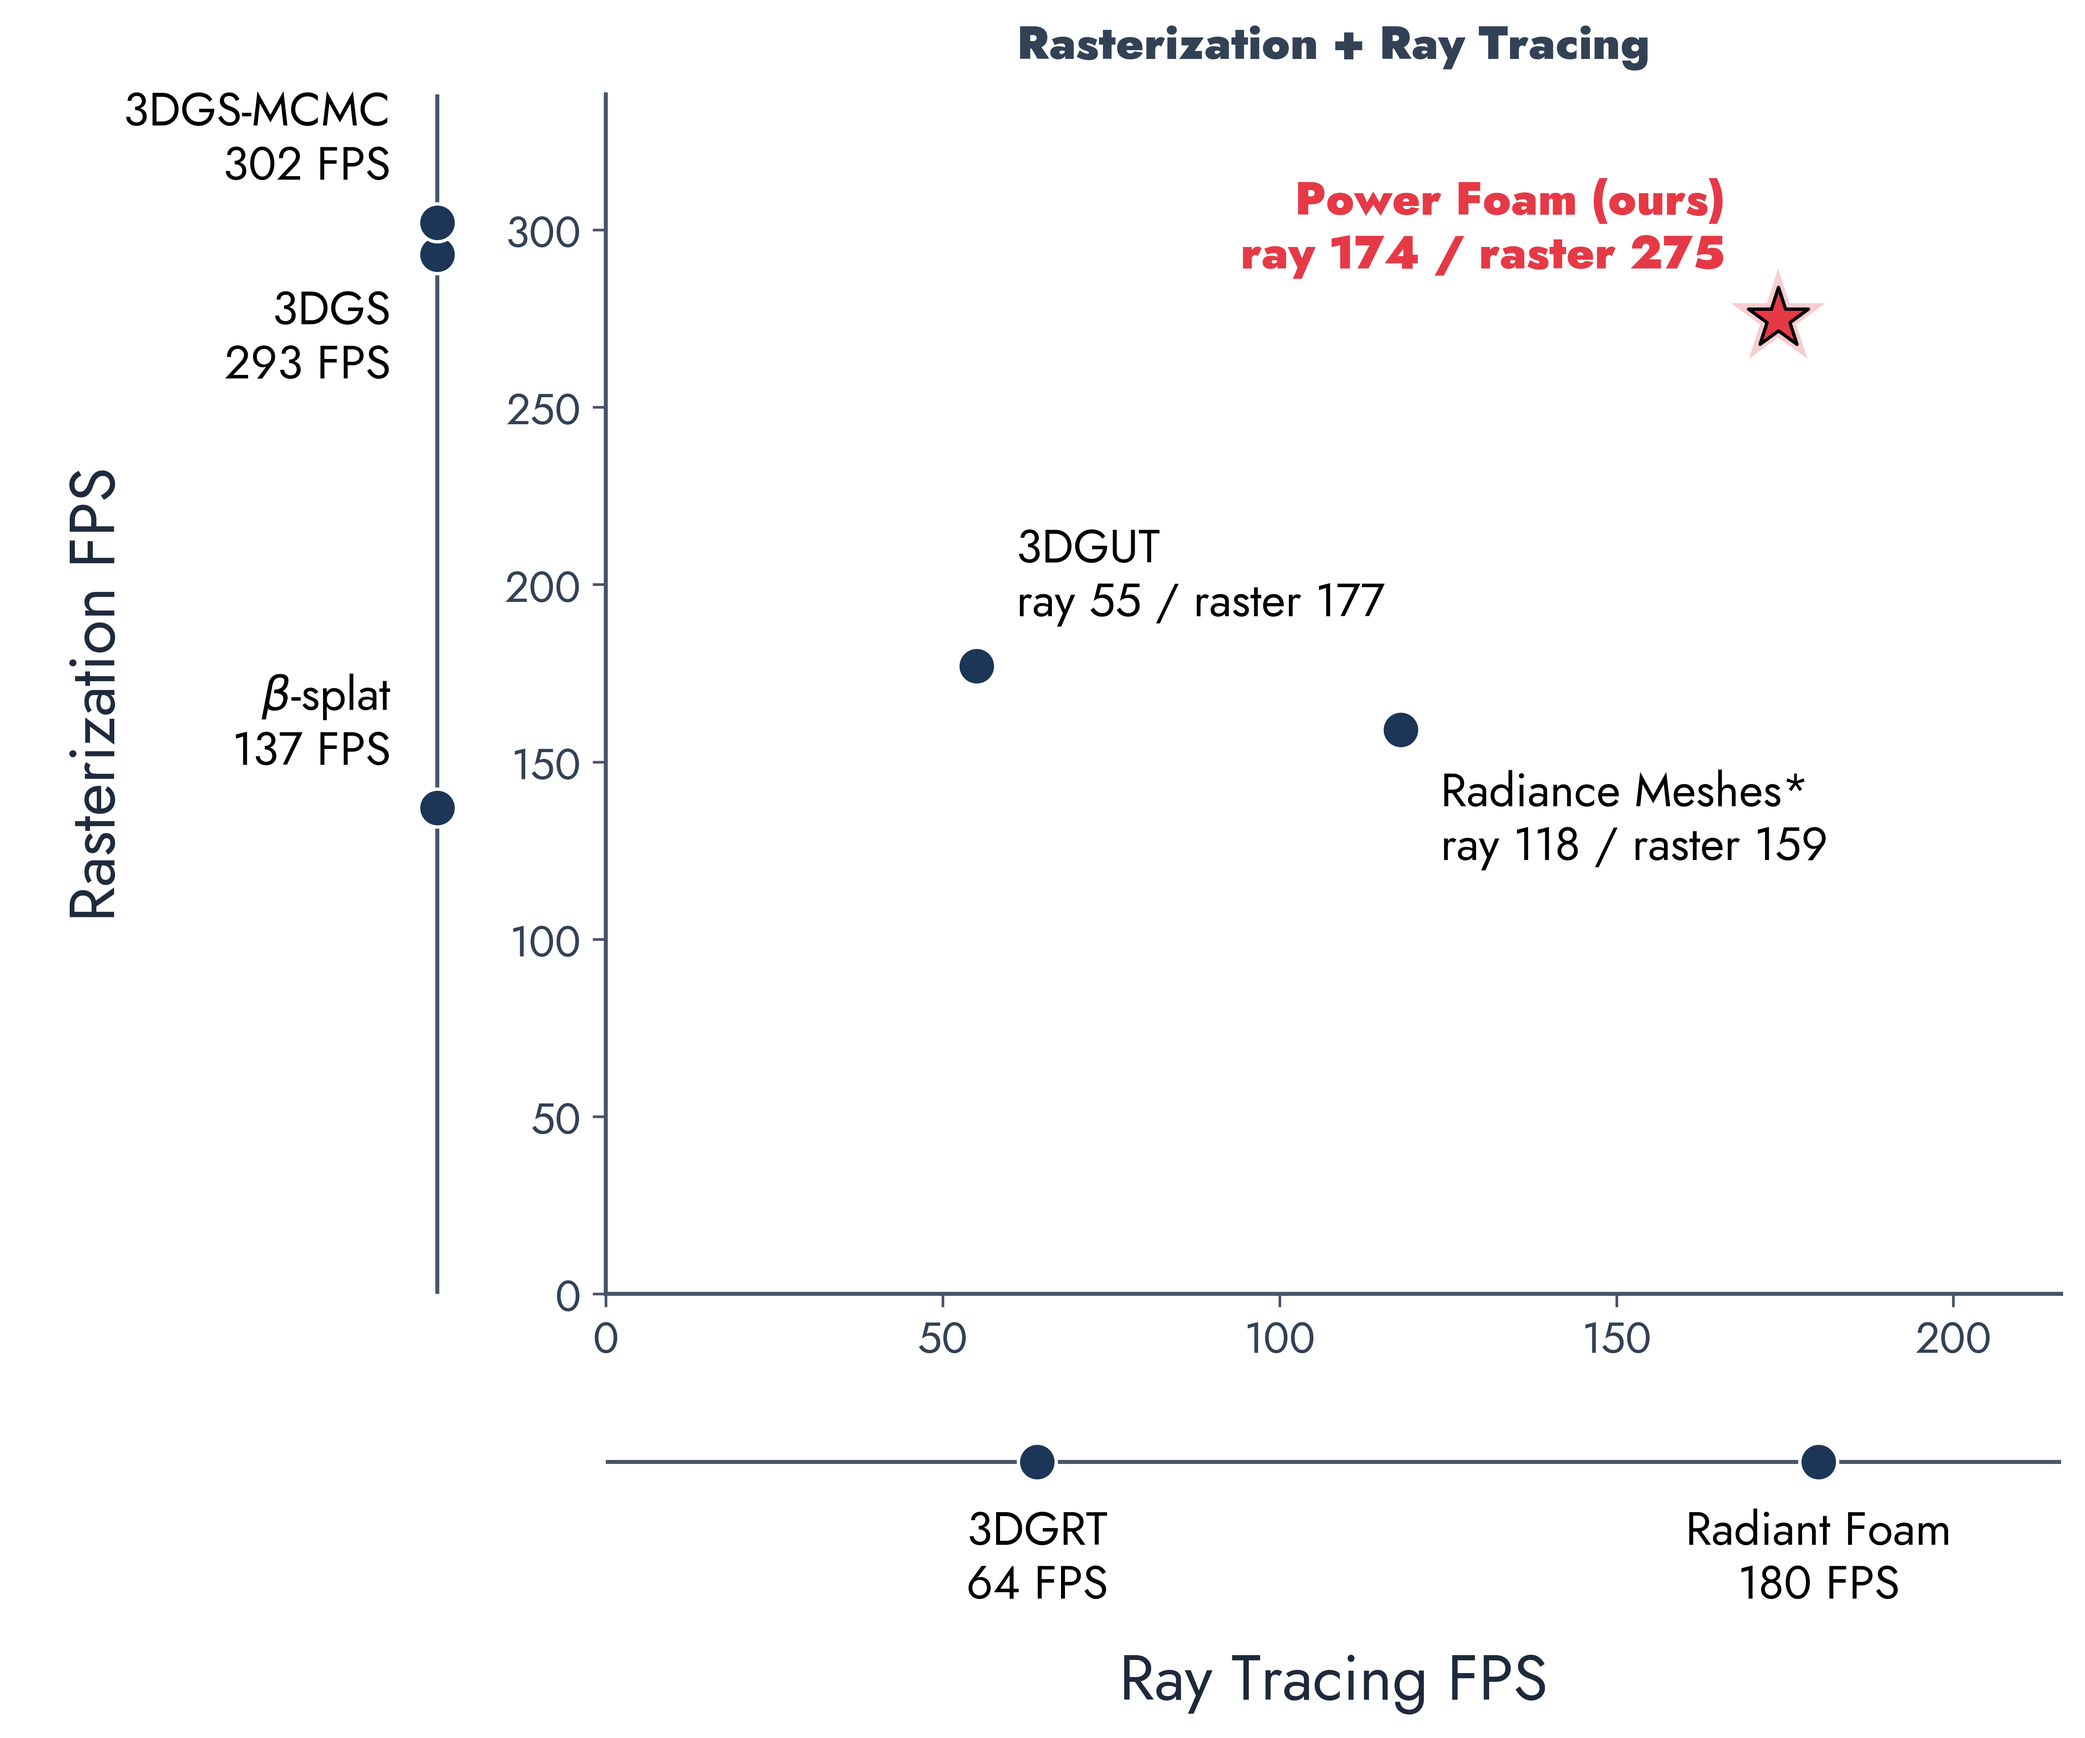
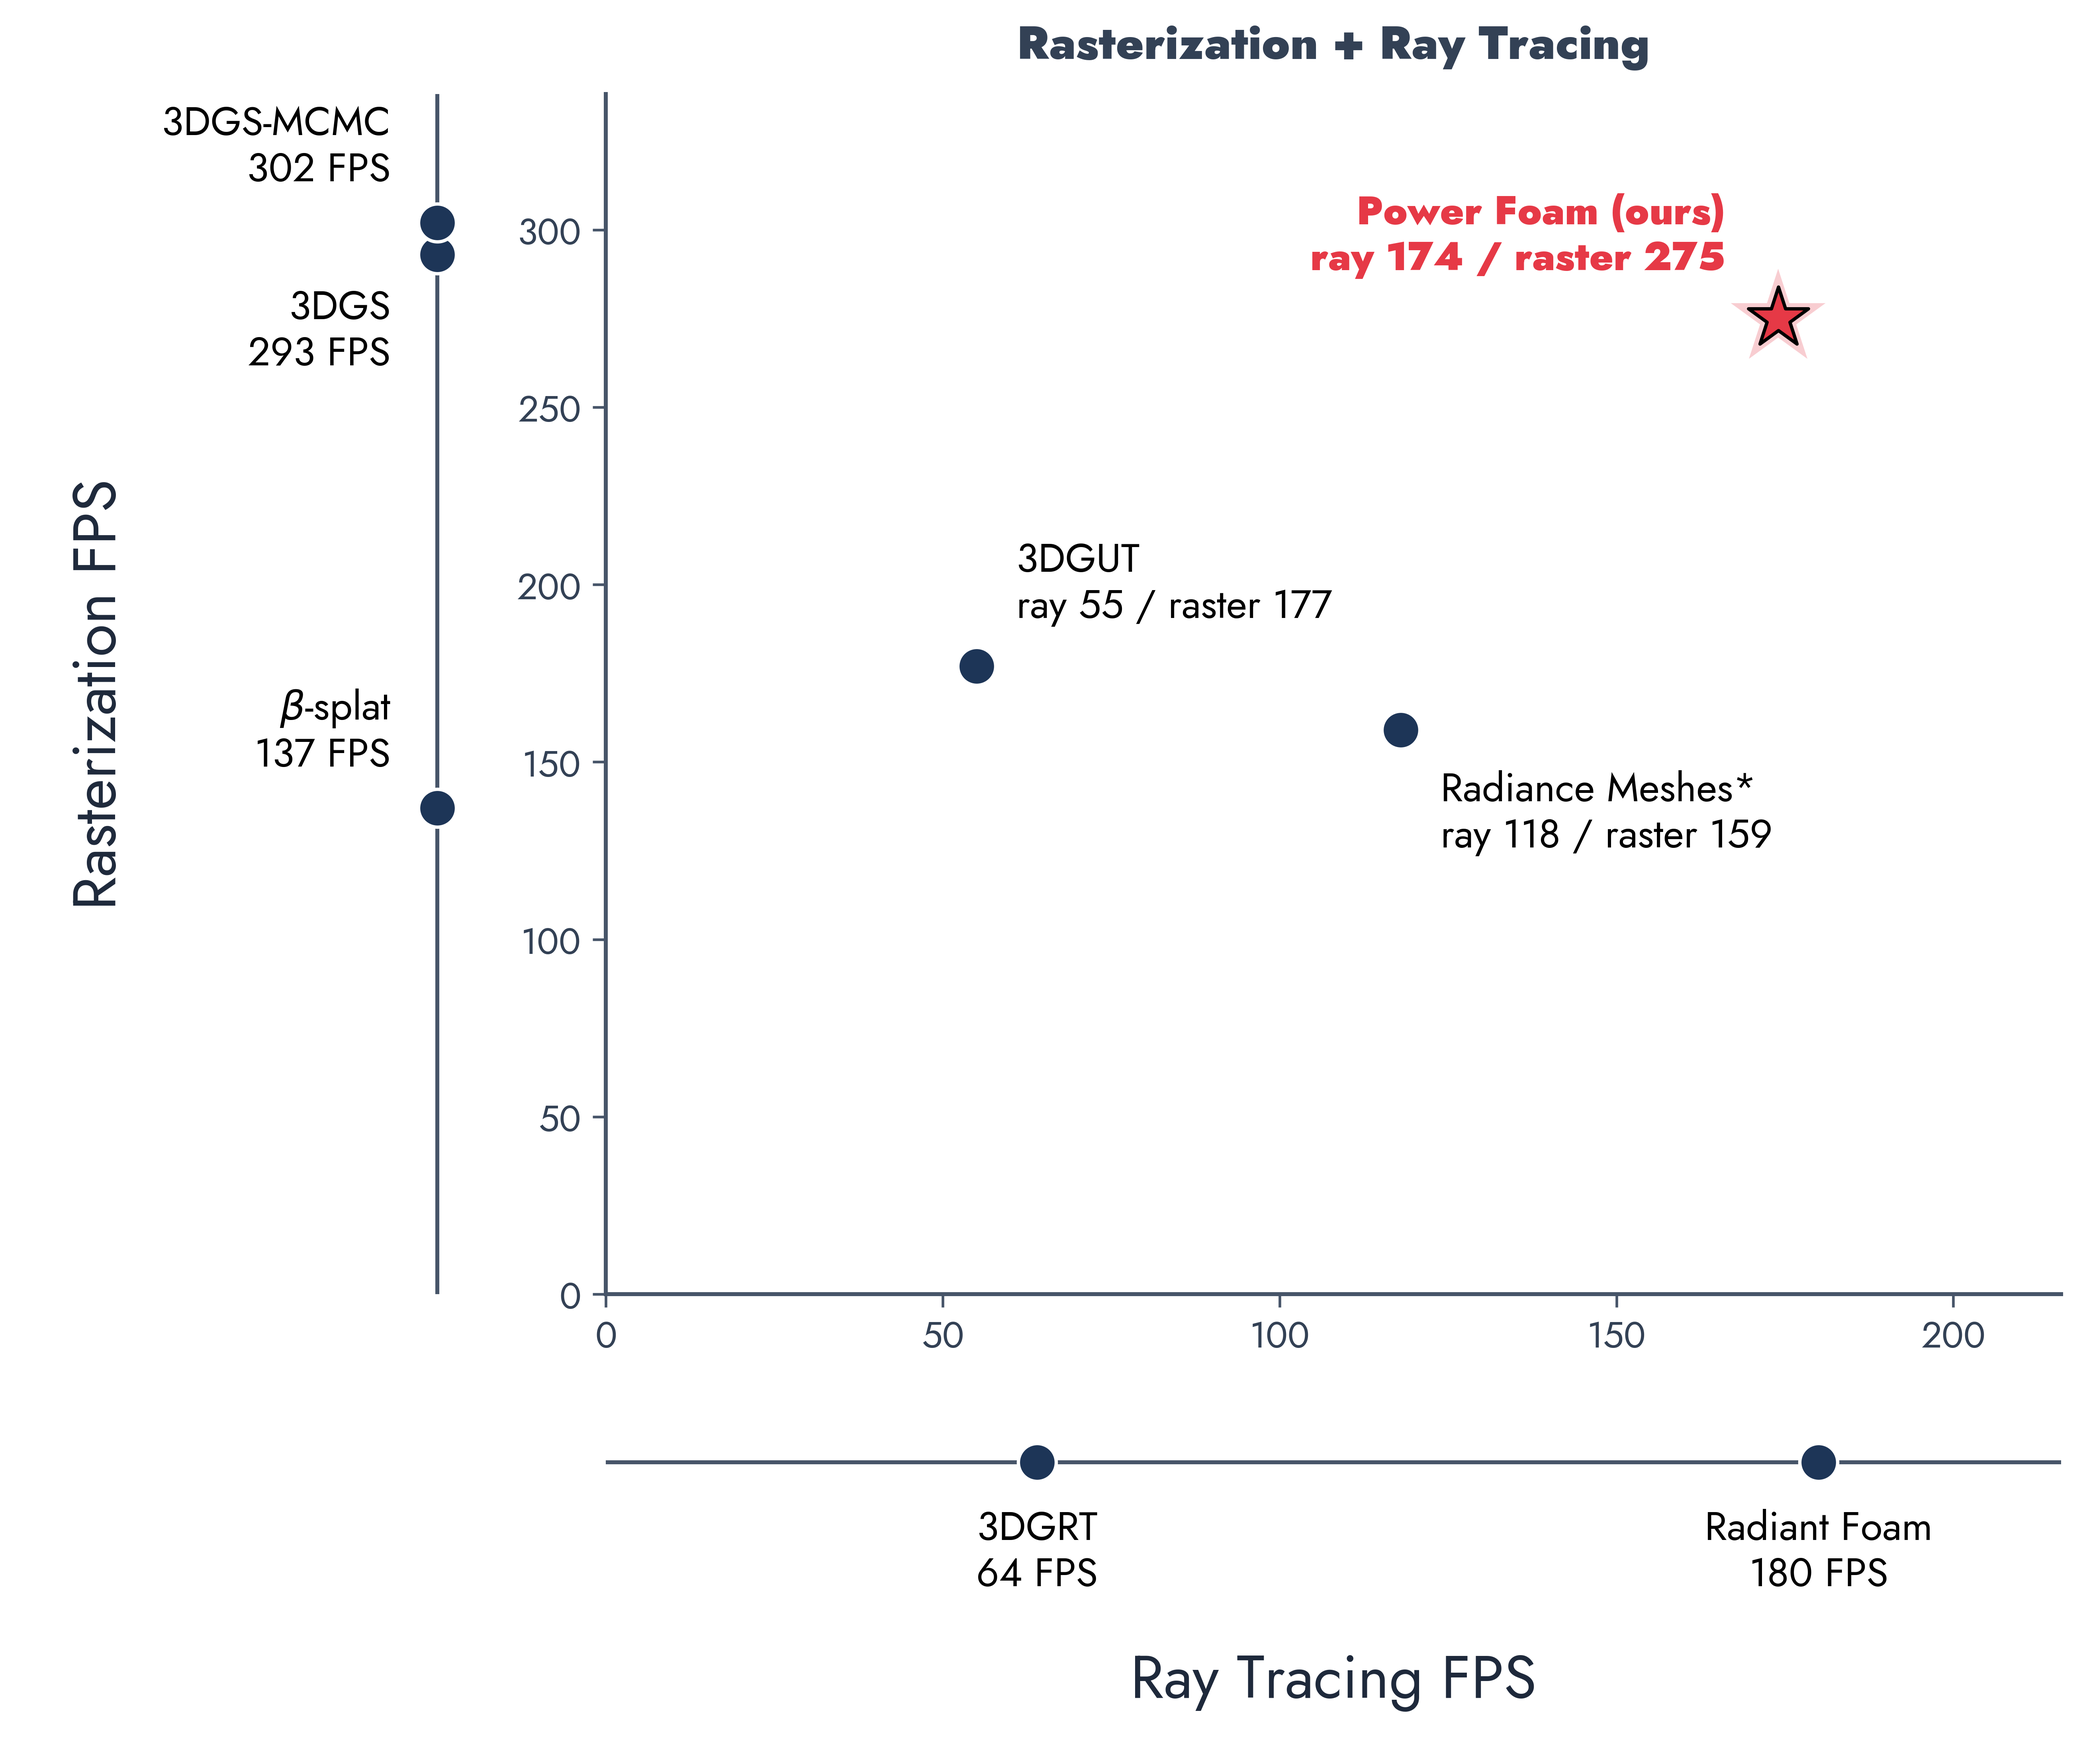
Tune FPS plot font sizes to match page hierarchy
Compute the matplotlib pt sizes that map to ~18 px (body) / ~28 px
(headings) on screen given the dpi=600 raster + ~0.2x display scale
inside the page container, then apply across the script:

  font.size            15  ->  12  (body / point labels)
  axes.labelsize       16  ->  18  (axis titles)
  xtick.labelsize      13  ->  11
  ytick.labelsize      13  ->  11
  annotation fontsize  14  ->  12
  set_xlabel/ylabel    19  ->  18

Result: data-point labels read at body-text size, axis titles read
as section headings, tick numerals stay subordinate.

Made-with: Cursor

diff --git a/plot_fps_scatter.py b/plot_fps_scatter.py
@@ -94,7 +94,7 @@ def _annotate(ax, xy, text, name, offset, ha="center", va="bottom") -> None:
         textcoords="offset points",
         ha=ha,
         va=va,
-        fontsize=14,
+        fontsize=12,
         fontweight="bold" if _is_ours(name) else "normal",
         color=OURS_COLOR if _is_ours(name) else "black",
     )
@@ -222,6 +222,9 @@ def _category_label(ax, text, x, y, ha="center", va="center", rotation=0) -> Non
         fontsize=14,
         color="#334155",
         fontweight="bold",
+        # Note: 14pt bold renders heavier than the 12pt body labels below
+        # while staying smaller than the 18pt axis labels — same visual
+        # hierarchy as <h3> in the page (subsection title).
         rotation=rotation,
     )
 
@@ -232,16 +235,22 @@ def _category_label(ax, text, x, y, ha="center", va="center", rotation=0) -> Non
 
 
 def build_figure(out_path: Path) -> None:
+    # Sizes are tuned so the rasterised plot, when displayed inside the
+    # page's `.container.is-max-desktop` (~1000 px wide on desktop) maps
+    # to roughly the same on-screen pixel sizes as the surrounding HTML:
+    # body labels ≈ 18 px, headings/axis labels ≈ 28 px. The image is
+    # saved at dpi=600 (~5 px/pt at the typical 0.2x display scale), so
+    # body text needs ≈ 12 pt and headings ≈ 18 pt in matplotlib units.
     plt.rcParams.update({
         "font.family": ["Jost", "sans-serif"],
-        "font.size": 15,
+        "font.size": 12,
         "axes.labelcolor": "#1e293b",
-        "axes.labelsize": 16,
+        "axes.labelsize": 18,
         "xtick.color": "#334155",
         "ytick.color": "#334155",
-        "xtick.labelsize": 13,
-        "ytick.labelsize": 13,
-        "legend.fontsize": 13,
+        "xtick.labelsize": 11,
+        "ytick.labelsize": 11,
+        "legend.fontsize": 12,
         "text.antialiased": True,
         # Render mathtext (e.g. r"$\beta$-splat") with sans-serif glyphs so
         # the Greek letter blends in instead of looking like Computer Modern.
@@ -310,7 +319,7 @@ def build_figure(out_path: Path) -> None:
         y_lim=(y_min, y_max),
         line_x=0.42,
     )
-    ax_left.set_ylabel("Rasterization FPS", fontsize=19)
+    ax_left.set_ylabel("Rasterization FPS", fontsize=18)
     # Pull the y-axis title in closer (default sits near the figure edge),
     # but leave a small breathing margin past the data labels.
     ax_left.yaxis.set_label_coords(0.18, 0.5)
@@ -328,7 +337,7 @@ def build_figure(out_path: Path) -> None:
         default_above=False,
         line_y=0.2,
     )
-    ax_bottom.set_xlabel("Ray Tracing FPS", fontsize=19)
+    ax_bottom.set_xlabel("Ray Tracing FPS", fontsize=18)
     # Pull the x-axis title up so it sits just below the data labels rather
     # than at the bottom of the cropped figure. Axes coords: 0 = panel
     # bottom, 1 = panel top; data labels live near axes y≈0.5.
